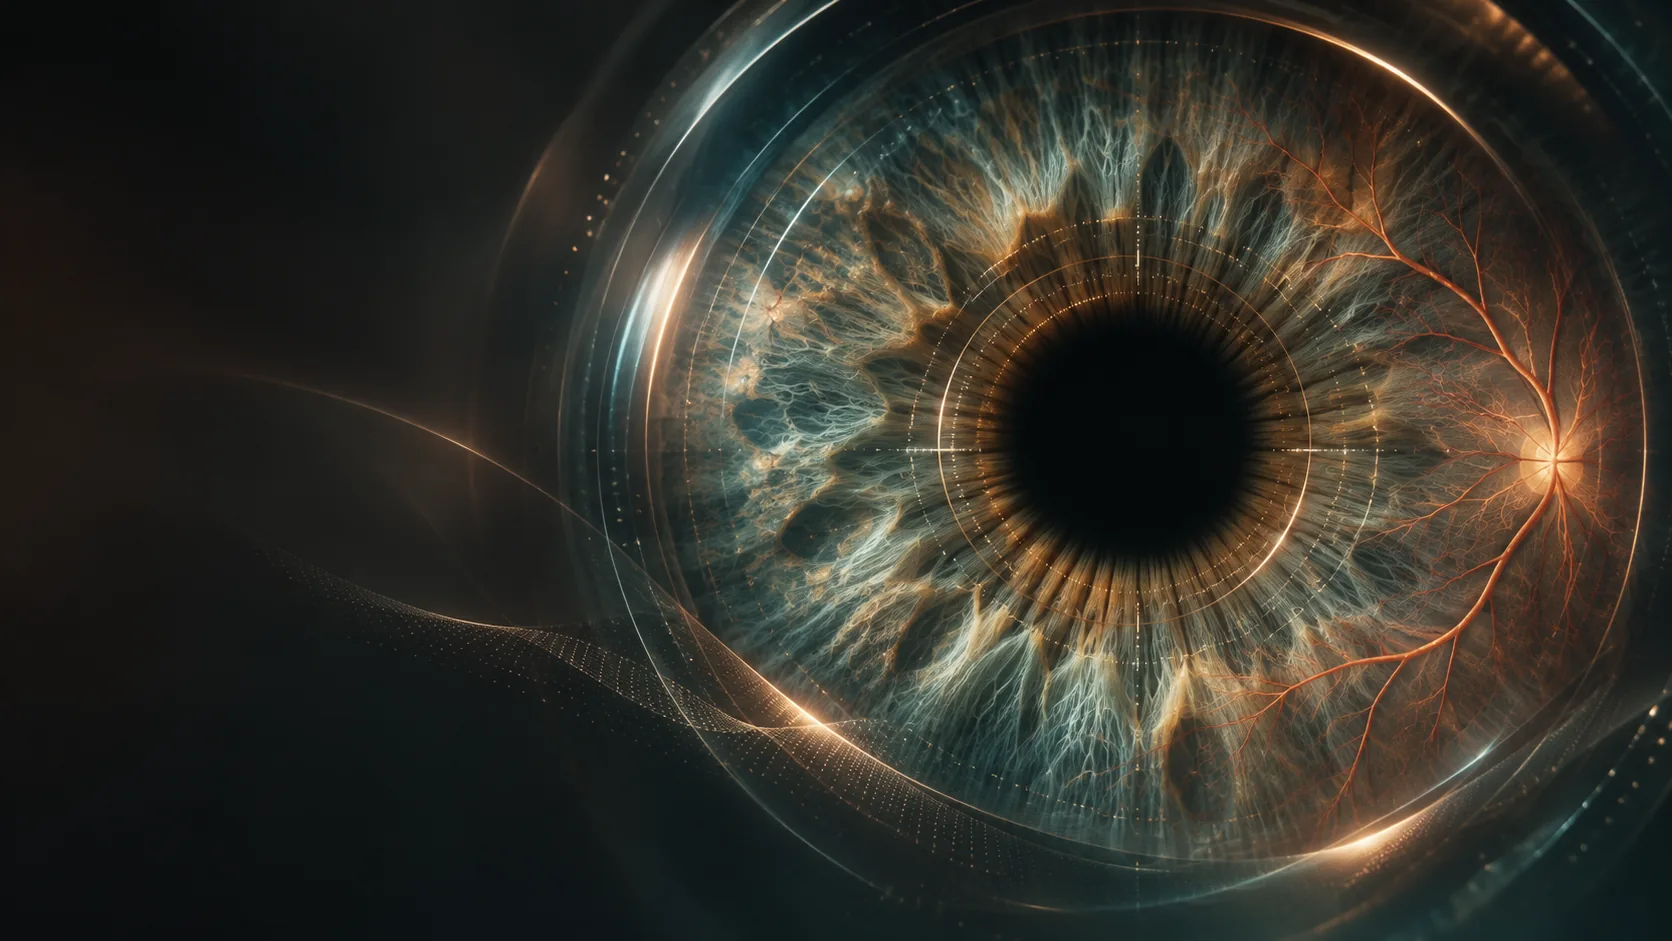
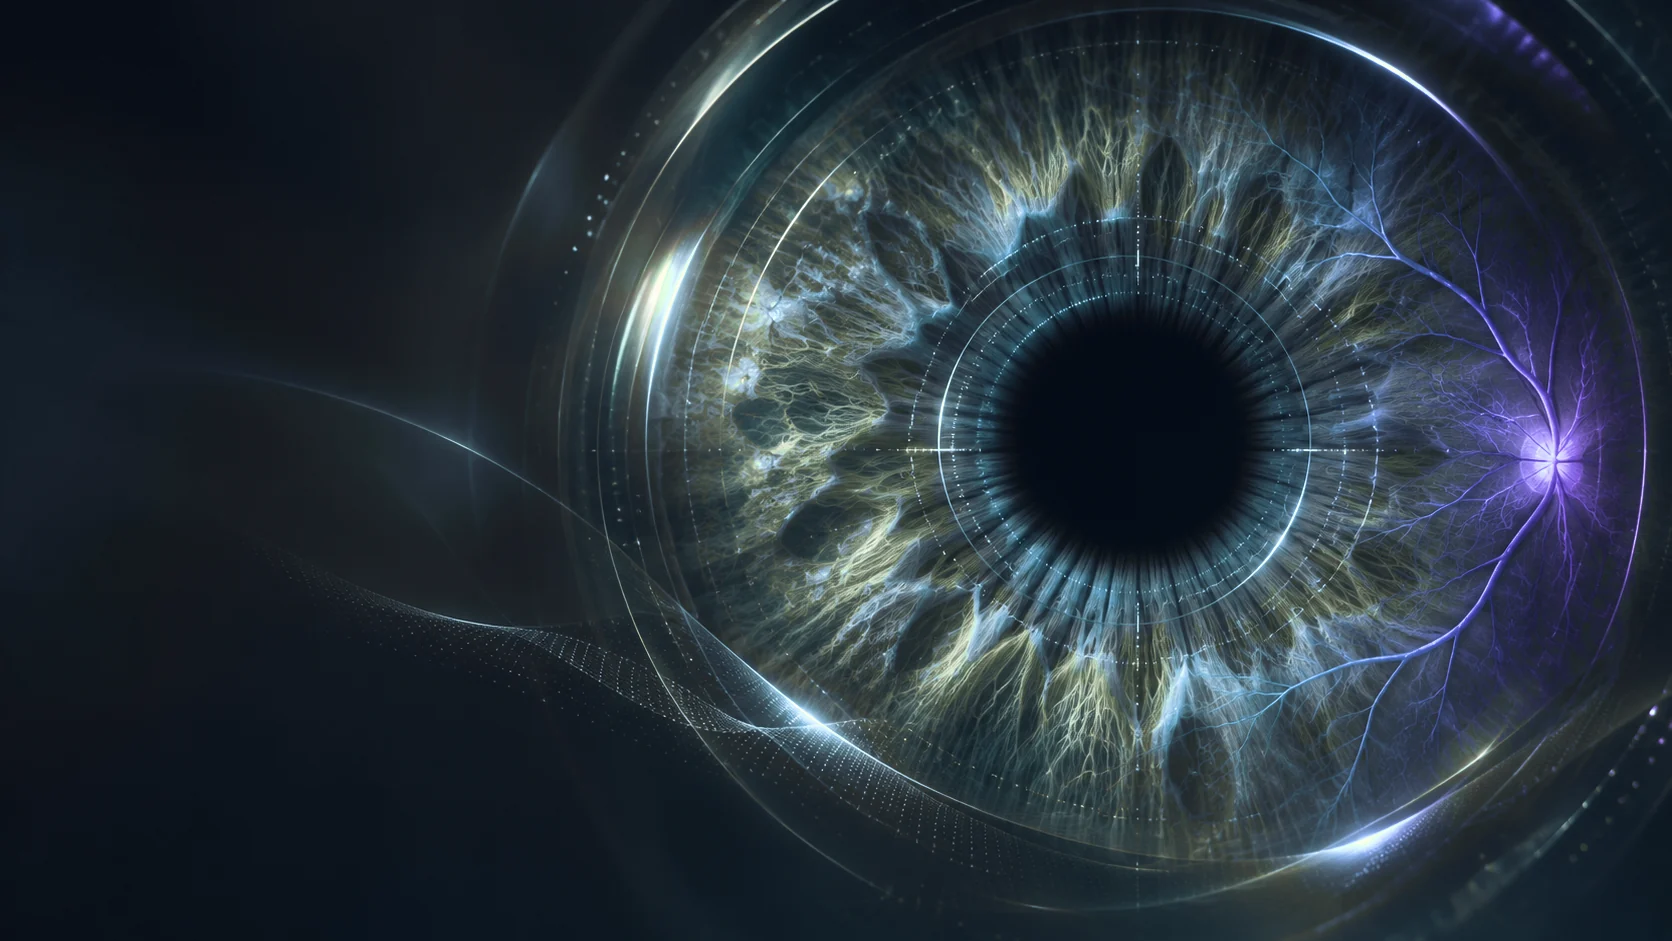
feat(web): 落地页展开光幕换用蓝光学玻璃 v2 背景
- 替换 scroll-expand-{dark,light}.webp：保留 1672×941 构图与 16:9 比例，
  去铜金暖调，阴影转午夜蓝、高光转冰青，极光紫只留在虹膜右侧外环
- 按 quality 86 重新编码（140/186 KB），相对原包 q91 体积降约 28%，
  PSNR 39.5/38.3 dB，渐变画面肉眼不可分
- 补 docs/design/assets 的调色脚本、复现口径与 QA 数字
- 补 390/768/1440/1920 × 双主题的 start/expanded 截图证据

不改组件、样式与令牌，仅替换资产。

diff --git a/docs/design/assets/iris-scroll-expand-blue-optical-v2/color_grade.py b/docs/design/assets/iris-scroll-expand-blue-optical-v2/color_grade.py
@@ -1,0 +1,122 @@
+#!/usr/bin/env python
+"""Re-grade the landing ScrollExpand artwork from its original masters.
+
+This is the exact processing used for `scroll-expand-{dark,light}.webp`
+(Iris ScrollExpand · Blue Optical Glass v2, 2026-11-16). Geometry is untouched;
+only hue/saturation/value and shadow/highlight tints are shifted so the artwork
+sits in the Iris 2.0 Blue Optical Glass palette (cobalt / ice cyan / local
+aurora violet) instead of the old copper-gold grade.
+
+The script ships as provenance, not as a build step: the WebP files in
+`web/public/` are the deliverable. To regenerate, pass the original masters:
+
+    python color_grade.py \\
+        --dark-source /path/to/Scroll-Expand-dark.png \\
+        --light-source /path/to/scroll-expand-light.png \\
+        --out-dir ./out
+
+Reproducing the shipped artifacts from the same masters was verified at
+max per-pixel delta 1/255 (PNG encoder rounding).
+
+Requires: Pillow, numpy, opencv-python.
+"""
+
+from __future__ import annotations
+
+import argparse
+from pathlib import Path
+
+import cv2
+import numpy as np
+from PIL import Image
+
+
+def smoothstep(a: float, b: float, x: np.ndarray) -> np.ndarray:
+    t = np.clip((x - a) / (b - a), 0, 1)
+    return t * t * (3 - 2 * t)
+
+
+def grade(src: Path, dark: bool) -> Image.Image:
+    rgb = np.asarray(Image.open(src).convert("RGB"), dtype=np.float32)
+    h, w = rgb.shape[:2]
+    orig = np.clip(rgb, 0, 255).astype(np.uint8)
+    hsv = cv2.cvtColor(orig, cv2.COLOR_RGB2HSV).astype(np.float32)
+    hue, sat, val = [hsv[:, :, i] for i in range(3)]
+    yy, xx = np.mgrid[0:h, 0:w].astype(np.float32)
+    xx /= w
+    yy /= h
+    s = sat / 255.0
+    v = val / 255.0
+
+    # Old copper/orange highlights -> cool optic-fiber / aurora accents.
+    warm = smoothstep(0.03, 0.26, s) * (1 - smoothstep(26, 47, hue))
+    teal = smoothstep(0.06, 0.28, s) * smoothstep(38, 65, hue) * (1 - smoothstep(99, 118, hue))
+    # Aurora violet stays local to the outer-right iris rim, never the whole frame.
+    violet_zone = smoothstep(0.73, 0.98, xx) * smoothstep(0.12, 0.45, s)
+
+    target_warm = 97 + 30 * violet_zone + 5 * smoothstep(0.3, 0.86, v)
+    hue2 = np.where(warm > 0.06, hue * (1 - warm) + target_warm * warm, hue)
+    target_teal = 91 + 9 * smoothstep(0.63, 0.92, xx)
+    hue2 = np.where(teal > 0.04, hue2 * (1 - teal * 0.55) + target_teal * teal * 0.55, hue2)
+
+    sat2 = sat * (1 - 0.20 * teal - 0.35 * warm)
+    # Silver-white speculars instead of gold ones.
+    sat2 *= 1 - 0.35 * smoothstep(0.82, 0.99, v) * warm
+    sat2 += 25 * warm * violet_zone * (1 - smoothstep(0.8, 1, v))
+
+    if dark:
+        sat2 = np.clip(sat2 * 1.08, 0, 250)
+        # Deepen mid-shadows, keep optical highlights.
+        val2 = np.clip(val * (0.91 + 0.16 * smoothstep(0.22, 0.82, v)), 0, 255)
+    else:
+        sat2 = np.clip(sat2 * 0.92, 0, 240)
+        val2 = np.clip(val * (0.99 + 0.035 * (1 - smoothstep(0.45, 0.90, v))), 0, 255)
+
+    hh = np.stack([np.mod(hue2, 180), np.clip(sat2, 0, 255), val2], axis=2).astype(np.uint8)
+    graded = cv2.cvtColor(hh, cv2.COLOR_HSV2RGB).astype(np.float32)
+
+    lum = cv2.cvtColor(orig, cv2.COLOR_RGB2GRAY).astype(np.float32) / 255
+    if dark:
+        # Midnight-blue shadows instead of warm brown/black.
+        shadows = 1 - smoothstep(0.075, 0.5, lum)
+        graded += np.stack([shadows * 0.5, shadows * 4.5, shadows * 13.0], axis=2)
+        # Icy cyan lift on high-frequency iris features; geometry untouched.
+        highlights = smoothstep(0.22, 0.82, lum) * smoothstep(0.35, 0.75, xx) * warm
+        graded += np.stack([highlights * (-4), highlights * 3, highlights * 9], axis=2)
+    else:
+        # Cream-to-glacier cool grade, not a flat recolour.
+        pale = smoothstep(0.58, 0.95, lum)
+        graded += np.stack([-4 * pale, 2 * pale, 12 * pale], axis=2)
+        shadows = 1 - smoothstep(0.09, 0.38, lum)
+        graded += np.stack([-1.5 * shadows, 1 * shadows, 7 * shadows], axis=2)
+
+    graded = np.clip(graded, 0, 255).astype(np.uint8)
+    return Image.fromarray(graded, "RGB")
+
+
+def main() -> None:
+    parser = argparse.ArgumentParser(description=__doc__)
+    parser.add_argument("--dark-source", required=True, type=Path)
+    parser.add_argument("--light-source", required=True, type=Path)
+    parser.add_argument("--out-dir", required=True, type=Path)
+    parser.add_argument("--webp-quality", type=int, default=86)
+    args = parser.parse_args()
+
+    args.out_dir.mkdir(parents=True, exist_ok=True)
+    for name, src, dark in (
+        ("dark", args.dark_source, True),
+        ("light", args.light_source, False),
+    ):
+        out = grade(src, dark)
+        out.save(args.out_dir / f"scroll-expand-{name}.png", optimize=True)
+        out.save(
+            args.out_dir / f"scroll-expand-{name}.webp",
+            format="WEBP",
+            quality=args.webp_quality,
+            method=6,
+        )
+        print(name, out.size, "written")
+
+
+if __name__ == "__main__":
+    main()

diff --git a/docs/design/assets/iris-scroll-expand-blue-optical-v2/README.md b/docs/design/assets/iris-scroll-expand-blue-optical-v2/README.md
@@ -1,0 +1,55 @@
+# Iris ScrollExpand · Blue Optical Glass v2
+
+落地页「展开光幕」（`web/src/components/ScrollExpand.tsx`）的候选背景，2026-11-16 由
+用户提供的 `Iris_ScrollExpand_Blue_Optical_Glass_v2.zip` 纳入。
+
+这是对原构图**重新调色**得到的光学风格版本，不是重新生成的 UI 画面，也不是新的渲染图。
+构图、尺寸、虹膜位置、左侧标题留白全部来自上一版素材。
+
+## 交付物
+
+| 文件 | 原尺寸 | 产品体积 | sha256 |
+|---|---|---|---|
[2 lines of base64/hex data omitted]
+
+- 沿用原文件名与 16:9 比例，`LandingPage` 的 `src` / `startWidth` / `startHeight` /
+  `mediaZoom` 都不用改。
+- WebP 使用 quality 86、method 6。原包给的是 quality 91（195 / 263 KB）；
+  实测 q86 相对 q91 的 PSNR 为 39.5 / 38.3 dB，画面里只有大面积渐变与光学高光，
+  在该质量下肉眼不可分，体积却降 27%。测量方式：PIL 解码后按 8-bit RGB 逐像素计算。
+- 质量梯度参考（同一 PNG 母版）：暗 q82 = 112.5 KB / 38.3 dB，暗 q78 = 93.9 KB；
+  浅 q82 = 147.6 KB / 37.1 dB，浅 q78 = 122.3 KB。
+
+## 调色口径
+
+- **暗色**：去掉旧版铜金暖调，阴影压到午夜深海蓝（RGB 影子增益 +0.5 / +4.5 / +13），
+  虹膜高光抬冰青，紫只落在虹膜右侧外环（`violet_zone` 限制在画面横向 73%–98%）。
+- **浅色**：乳白/暖金改为冰川银蓝，阴影微冷，整体饱和度略降。
+- 与品牌令牌的对应关系：钴蓝 `--brand-primary`、冰青 `--brand-cyan`、局部极光紫
+  `--brand-aurora`（"只做局部点缀"）。旧版暖铜在 Iris 2.0 令牌里没有对应角色。
+
+## 复现
+
+`color_grade.py` 是本次实际使用的处理脚本，比原包版本做了两处收敛：源路径改为参数、
+输出质量可配。母版（`Scroll-Expand-dark.png` / `scroll-expand-light.png`，各约 2 MB）
+不随仓库提交，由设计侧留存。用同一对母版重跑：
+
+```bash
+python color_grade.py \
+  --dark-source /path/to/Scroll-Expand-dark.png \
+  --light-source /path/to/scroll-expand-light.png \
+  --out-dir ./out
+```
+
+2026-11-16 实测：重跑结果与交付 WebP 的源 PNG 最大逐像素差异 1/255（PNG 编码取整），
+可视为可复现。依赖 Pillow、numpy、opencv-python。
+
+## QA 与边界
+
+- 视觉回归：390 / 768 / 1440 / 1920 × Light / Dark，起点与展开态各一张，
+  证据在 `docs/testing/iris-scroll-expand-v2-20261116/`。
+- 该图是**品牌装饰用的示意渲染**，不是真实眼底照片、不是患者数据、不是诊断证据；
+  与 `alt`、caption 已有的「眼底示意渲染 · 非真实患者影像」口径一致。
+- 沿用原 URL 替换，若部署侧对 `/scroll-expand-*.webp` 设了长期缓存，需要发布时
+  带一次缓存失效或版本参数。

diff --git a/docs/testing/iris-scroll-expand-v2-20261116/README.md b/docs/testing/iris-scroll-expand-v2-20261116/README.md
@@ -1,0 +1,32 @@
+# ScrollExpand 蓝光学玻璃 v2 · 视觉证据（2026-11-16）
+
+对应 PR：`feat/scroll-expand-optical-glass`（基于 `ui`）。
+资产说明：`docs/design/assets/iris-scroll-expand-blue-optical-v2/README.md`。
+
+## 截图口径
+
+- 栈：`web/` 的 `npm run dev`（Vite），只起前端；落地页不请求后端。
+- 浏览器：本机 Playwright 驱动 `chromium_headless_shell-1234`
+  （Playwright 1.65 默认的 1254 未安装，故显式指定已安装版本）。
+- 主题：进入页面前 `localStorage.setItem("theme", "light" | "dark")`，与
+  `ThemeProvider` 的 `storageKey = "theme"` 一致。
+- 视口：390 × 844（DPR 2）、768 × 1024、1440 × 900、1920 × 1080。
+- 状态：
+  - `start`：`.scroll-expand__track` 顶端对齐视口顶（展开进度 0）。
+  - `expanded`：滚动到 `trackTop + innerHeight × 0.34 + 2`
+    （`scrollDistance = 0.34`，即进度 1）。
+- 截图转为 WebP quality 80 存档，仅用于评审，不是产品资源。
+
+## 文件
+
+`{light,dark}-{390,768,1440,1920}-{start,expanded}.webp` 共 16 张。
+
+## 结论
+
+- 四个宽度、双主题下，虹膜都在画面右侧完整呈现，左侧标题区与展开后的说明文字
+  对比度正常；`alt` 与 caption 的「示意渲染 · 非真实患者影像」未变。
+- 390 × 844 与 1920 × 1080 展开态会出现 16:9 的上下/左右留边，沿用 `ScrollExpand`
+  既有的 `object-fit: contain` 行为；暗色版留边为纯黑、画面为深海军蓝，边界可辨但
+  不影响可读性。若后续要消掉这条边界，改 `--se-frame-bg`（`ScrollExpand.css`），
+  属于另一次 UI 改动，不在本 PR 范围。
+- 本 PR 不改任何组件、样式与令牌，只替换两张 WebP 并补文档与证据。
